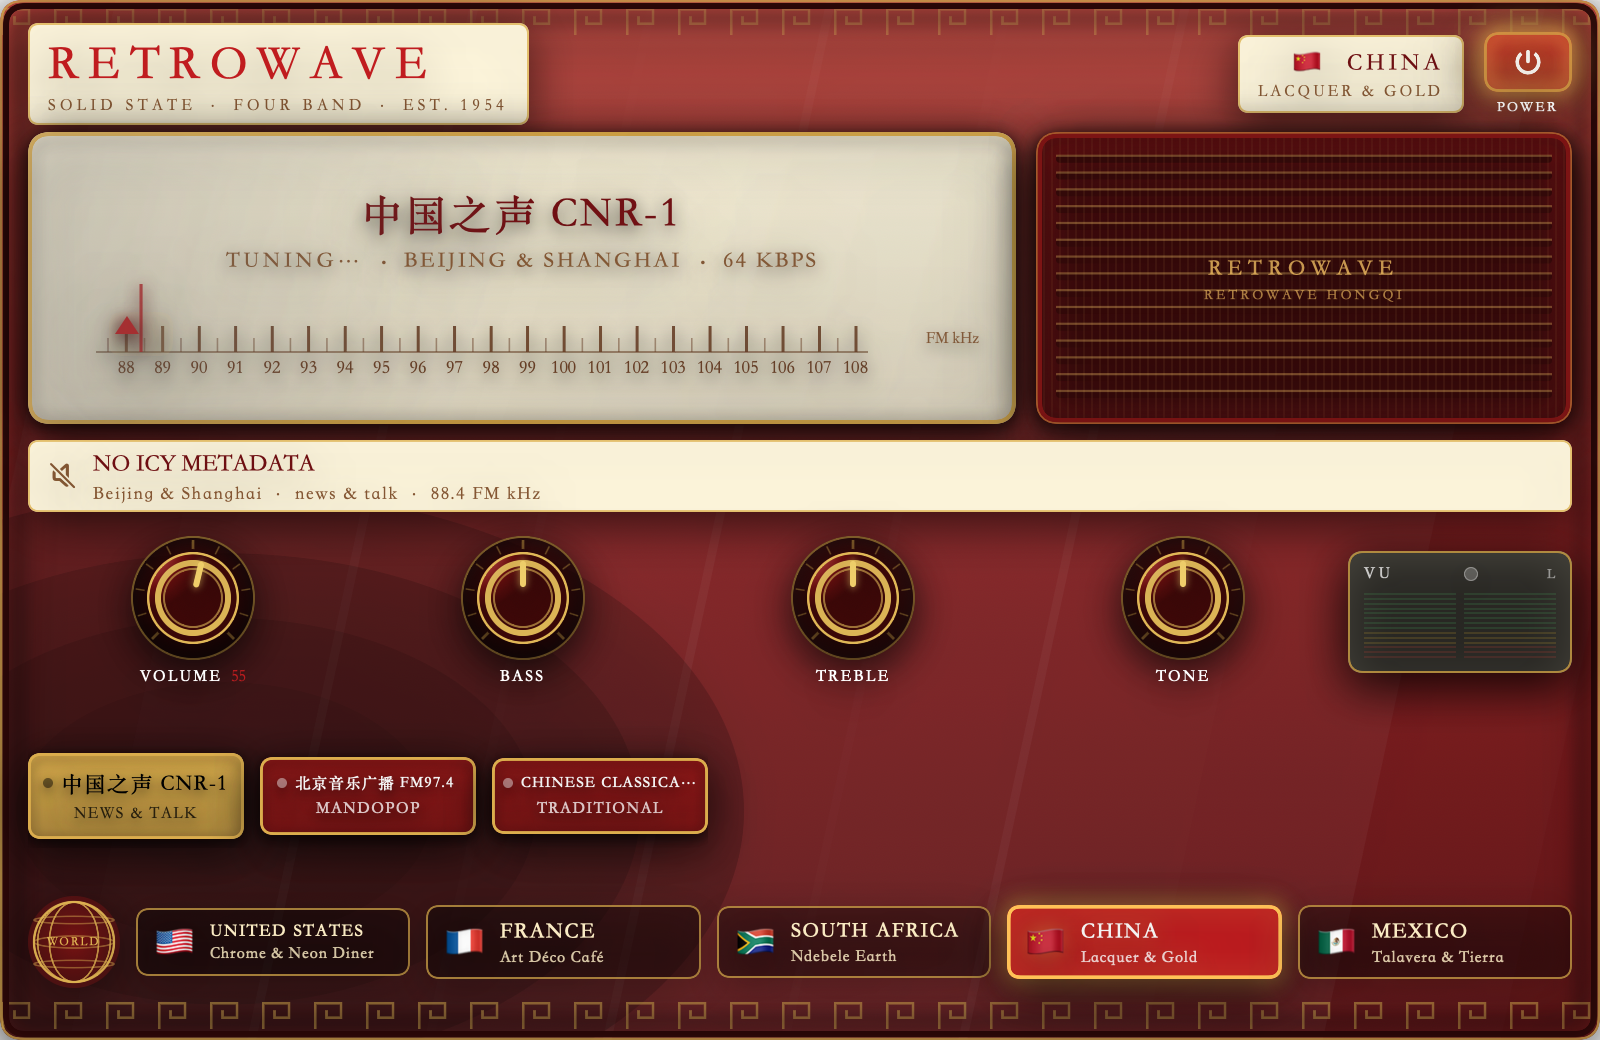
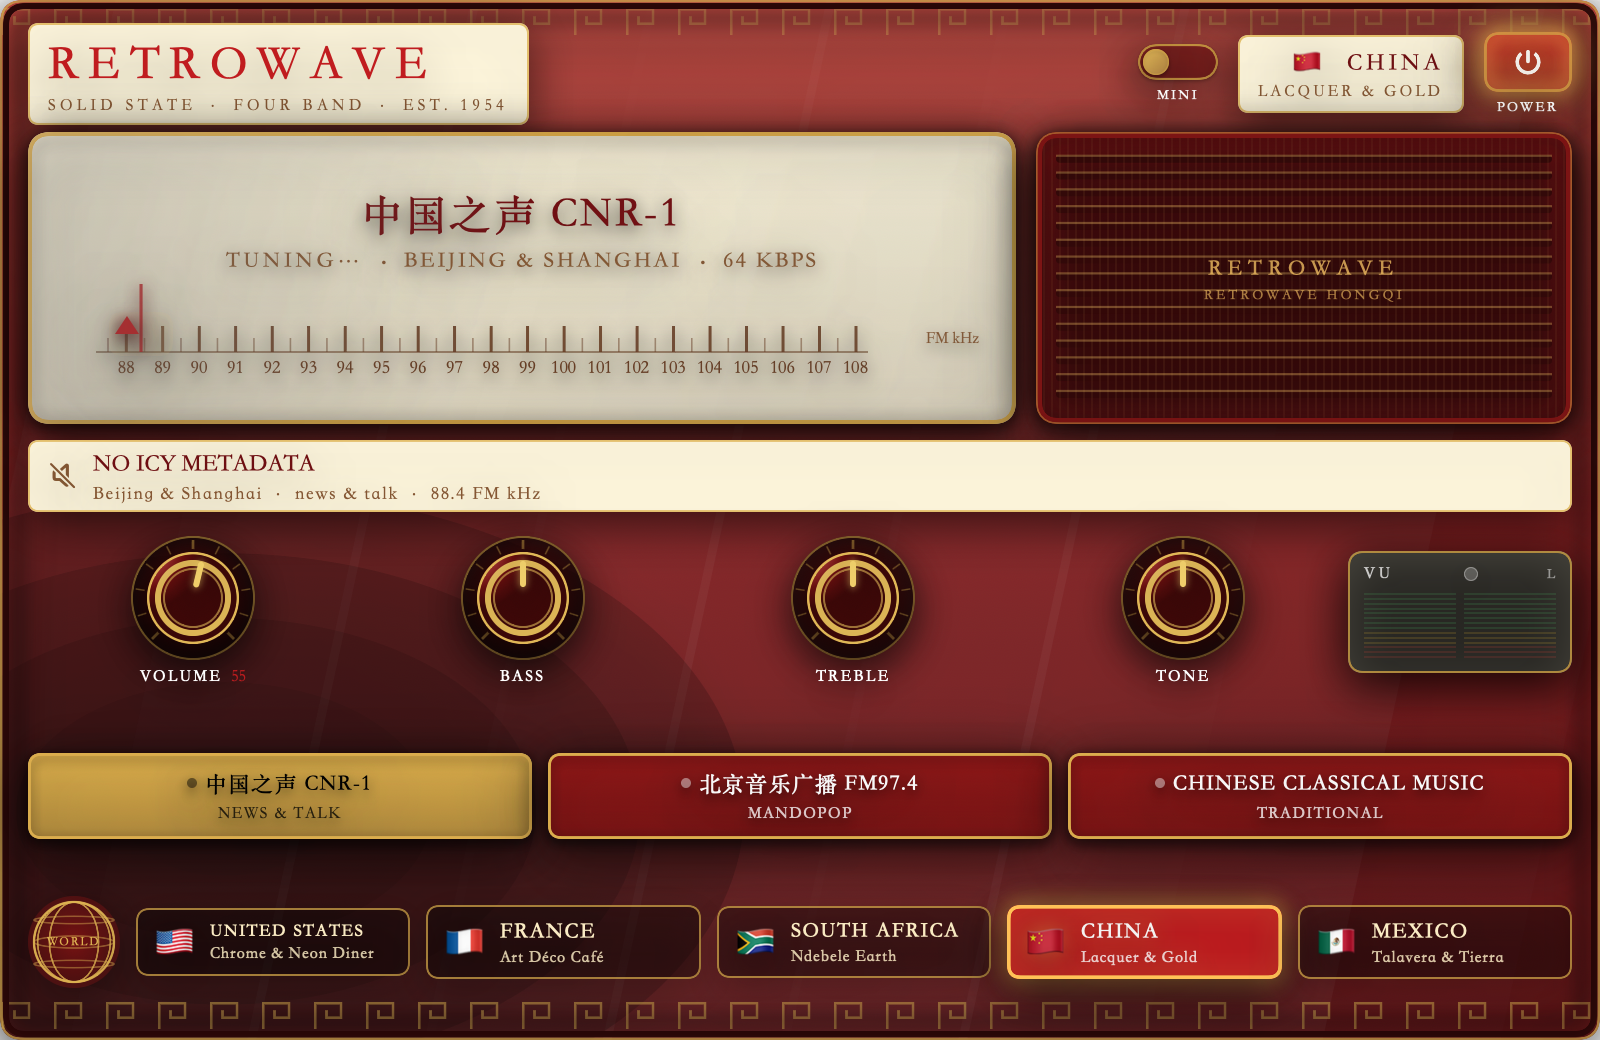
Station band fills the cabinet: flex-width buttons, no scrolling

Changed region(s): [[0.0312, 0.7077, 1.0, 0.8615], [0.6875, 0.0308, 0.7812, 0.1231]]

diff --git a/Views/StationSelectorView.swift b/Views/StationSelectorView.swift
@@ -1,11 +1,9 @@
 import SwiftUI
 
-/// A horizontally draggable band of pushbuttons — one per station on the current
-/// country's frequency range.
-///
-/// A plain `ScrollView` is deliberately avoided: it swallows clicks inside the
-/// scroll area on some macOS versions, so the band is scrolled by hand with an
-/// offset and clipped here. That also keeps the row a fixed 52 pt tall.
+/// One row of moulded pushbuttons — one per station on the current country's
+/// dial. The buttons flex to fill the cabinet width, so every station is
+/// visible at once: no scrolling, no clipping. Crowded sets (nine or more)
+/// switch to a tighter engraving so the text stays readable at narrow widths.
 struct StationSelectorView: View {
     let theme: SkinTheme
     let stations: [Station]
@@ -13,69 +11,27 @@ struct StationSelectorView: View {
     let state: RadioState
     let onSelect: (Station) -> Void
 
-    private let buttonWidth: CGFloat = 108
     private let gap: CGFloat = 8
     private let height: CGFloat = 52
 
-    @State private var offset: CGFloat = 0
-    @State private var dragAnchor: CGFloat?
-
-    private var contentWidth: CGFloat {
-        CGFloat(stations.count) * buttonWidth + CGFloat(max(stations.count - 1, 0)) * gap
-    }
-
     var body: some View {
-        GeometryReader { geo in
-            let visible = geo.size.width
-            let travel = max(0, contentWidth - visible)
-
-            ZStack(alignment: .topLeading) {
-                HStack(spacing: gap) {
-                    ForEach(stations) { station in
-                        PushButton(
-                            theme: theme,
-                            title: shortTitle(station),
-                            subtitle: station.genre,
-                            isActive: station.id == selectedID,
-                            isLive: station.id == selectedID && state == .playing
-                        ) {
-                            onSelect(station)
-                        }
-                        .frame(width: buttonWidth)
-                    }
+        let compact = stations.count >= 9
+        HStack(spacing: gap) {
+            ForEach(stations) { station in
+                PushButton(
+                    theme: theme,
+                    title: shortTitle(station),
+                    subtitle: station.genre,
+                    isActive: station.id == selectedID,
+                    isLive: station.id == selectedID && state == .playing,
+                    compact: compact
+                ) {
+                    onSelect(station)
                 }
-                .offset(x: -min(offset, travel))
-                .gesture(
-                    DragGesture(minimumDistance: 0)
-                        .onChanged { g in
-                            let anchor = dragAnchor ?? offset
-                            if dragAnchor == nil { dragAnchor = anchor }
-                            offset = min(max(anchor + g.translation.width, 0), travel)
-                        }
-                        .onEnded { _ in dragAnchor = nil }
-                )
-
-                if travel > 1 {
-                    // Chevron affordances at both ends of the band.
-                    ScrollChevron(theme: theme, pointsRight: false) { scroll(by: -buttonWidth, travel: travel) }
-                        .frame(width: 18, height: height)
-                        .frame(maxWidth: .infinity, alignment: .leading)
-                    ScrollChevron(theme: theme, pointsRight: true) { scroll(by: buttonWidth, travel: travel) }
-                        .frame(width: 18, height: height)
-                        .frame(maxWidth: .infinity, alignment: .trailing)
-                }
+                .frame(maxWidth: .infinity)
             }
-            .frame(height: height)
-            .clipShape(Rectangle())
-            .onAppear { offset = 0 }
         }
         .frame(height: height)
-    }
-
-    private func scroll(by amount: CGFloat, travel: CGFloat) {
-        withAnimation(.easeOut(duration: 0.18)) {
-            offset = min(max(offset + amount, 0), travel)
-        }
     }
 
     /// Keeps the engraving readable — three words maximum.
@@ -91,6 +47,8 @@ private struct PushButton: View {
     let subtitle: String
     let isActive: Bool
     let isLive: Bool
+    /// Crowded bands engrave smaller so twelve stations stay legible.
+    var compact: Bool = false
     let action: () -> Void
 
     @State private var pressed = false
@@ -101,22 +59,29 @@ private struct PushButton: View {
     var body: some View {
         Button(action: action) {
             VStack(spacing: 2) {
-                HStack(spacing: 4) {
-                    Circle()
-                        .fill(isLive ? theme.glow : ink.opacity(0.45))
-                        .frame(width: 5, height: 5)
-                        .shadow(color: isLive ? theme.glow : .clear, radius: 3)
+                HStack(spacing: compact ? 3 : 4) {
+                    if !compact {
+                        Circle()
+                            .fill(isLive ? theme.glow : ink.opacity(0.45))
+                            .frame(width: 5, height: 5)
+                            .shadow(color: isLive ? theme.glow : .clear, radius: 3)
+                    } else {
+                        Circle()
+                            .fill(isLive ? theme.glow : ink.opacity(0.45))
+                            .frame(width: 3.5, height: 3.5)
+                            .shadow(color: isLive ? theme.glow : .clear, radius: 2)
+                    }
                     Text(title)
-                        .font(theme.labelFont(11))
-                        .tracking(0.6)
+                        .font(theme.labelFont(compact ? 9 : 11))
+                        .tracking(compact ? 0.4 : 0.6)
                         .lineLimit(1)
-                        .minimumScaleFactor(0.7)
+                        .minimumScaleFactor(0.6)
                 }
                 Text(subtitle.uppercased())
-                    .font(theme.smallFont(8))
-                    .tracking(0.8)
+                    .font(theme.smallFont(compact ? 6.5 : 8))
+                    .tracking(compact ? 0.4 : 0.8)
                     .lineLimit(1)
-                    .minimumScaleFactor(0.7)
+                    .minimumScaleFactor(0.6)
                     .opacity(0.78)
             }
             .foregroundColor(ink)
@@ -145,28 +110,5 @@ private struct PushButton: View {
         .onLongPressGesture(minimumDuration: 0, pressing: { down in
             pressed = down
         }, perform: {})
-    }
-}
-
-/// A small moulded arrow that pages the station band one button at a time.
-private struct ScrollChevron: View {
-    let theme: SkinTheme
-    let pointsRight: Bool
-    let action: () -> Void
-
-    @State private var hovering = false
-
-    var body: some View {
-        Button(action: action) {
-            ZStack {
-                RoundedRectangle(cornerRadius: 4, style: .continuous)
-                    .fill(Color.black.opacity(hovering ? 0.62 : 0.45))
-                Image(systemName: pointsRight ? "chevron.right" : "chevron.left")
-                    .font(.system(size: 9, weight: .black))
-                    .foregroundColor(Color.white.opacity(0.85))
-            }
-        }
-        .buttonStyle(.plain)
-        .onHover { hovering = $0 }
     }
 }

diff --git a/NOTES.md b/NOTES.md
@@ -184,10 +184,16 @@ Roughly a dozen candidate endpoints turned out to be dead or unusable and were
 
 ### Other judgement calls
 
-* **Station band scrolls.** The US skin carries 13 stations, too many for one
-  row of readable pushbuttons, so the band is drag-scrollable with chevron
-  paging. A plain `ScrollView` was rejected: it swallows clicks on some macOS
-  versions, so the scroll is hand-rolled with an offset and a clip.
+* **The station band fills the cabinet — no scrolling.** Buttons are
+  flex-width and stretch to fill the row, so every station is visible at
+  once: no chevrons, no drag-scroll, no clipping. Crowded sets (nine or more
+  stations — currently the US set with twelve) switch to a compact engraving
+  (9 pt title / 6.5 pt genre, smaller indicator dot) so they stay legible at
+  narrow button widths; long titles truncate with an ellipsis rather than
+  overflow. The earlier hand-rolled scroll band (offset + chevron paging) was
+  removed: a `ScrollView` was rejected because it swallows clicks on some
+  macOS versions, and the scrolling itself was dropped in favour of
+  everything-visible.
 * **Contrast-aware ink.** Several skins invert (ivory cabinets, crimson
   lacquer), so engraved text colour is derived at runtime by WCAG contrast
   ratio (`Color.bestInk`) instead of being hard-coded per country. The first
@@ -248,8 +254,7 @@ Roughly a dozen candidate endpoints turned out to be dead or unusable and were
 | POWER | Toggles the set on/off. Lit when on. |
 | Volume knob | Drag vertically, 0–100, mapped linearly to `AVPlayer.volume`. |
 | Bass / Treble / Tone knobs | Drag vertically. Cosmetic (see above). |
-| Station pushbuttons | Click to tune. Click the already-live station to toggle power. |
-| ◀ ▶ chevrons | Page the station band. The band also drags directly. |
+| Station pushbuttons | Click to tune. Click the already-live station to toggle power. The row flexes to fit the cabinet, so all stations are visible at once. |
 | Country buttons | Switch skin. Crossfades over 0.6 s, plays a static crackle. |
 | Globe badge | Decorative; drifts as a wire-frame globe. |
 | MINI paddle switch (header) | Slides the cabinet into the 300×80 mini bar (same as ⇧⌘M). The mini bar's small expand glyph brings the cabinet back — without it the only way out of mini mode would have been the menu. |

diff --git a/README.md b/README.md
@@ -61,8 +61,7 @@ To install: `cp -R build/RetroWave.app /Applications/`
 | **POWER** | Toggles the set. Lit when on. (`⌘P`) |
 | **Volume** knob | Real volume, 0–100, drives `AVPlayer.volume`. |
 | **Bass / Treble / Tone** knobs | Rotate and hold state; cosmetic (`AVPlayer` exposes no EQ). |
-| **Station pushbuttons** | Click to tune; click the live station to toggle power. |
-| **◀ ▶ chevrons** | Page the station band (it also drags directly). |
+| **Station pushbuttons** | Click to tune; click the live station to toggle power. The row flexes to the cabinet width, so every station of the current country is visible at once. |
 | **Country buttons** | Switch skin — 0.6 s crossfade + a static crackle. |
 | **MINI paddle switch** (header) | Slides the cabinet into the 300×80 mini bar (`⇧⌘M`); the mini bar's expand glyph brings it back. |
 | **⌘] / ⌘[** | Next / previous station |
